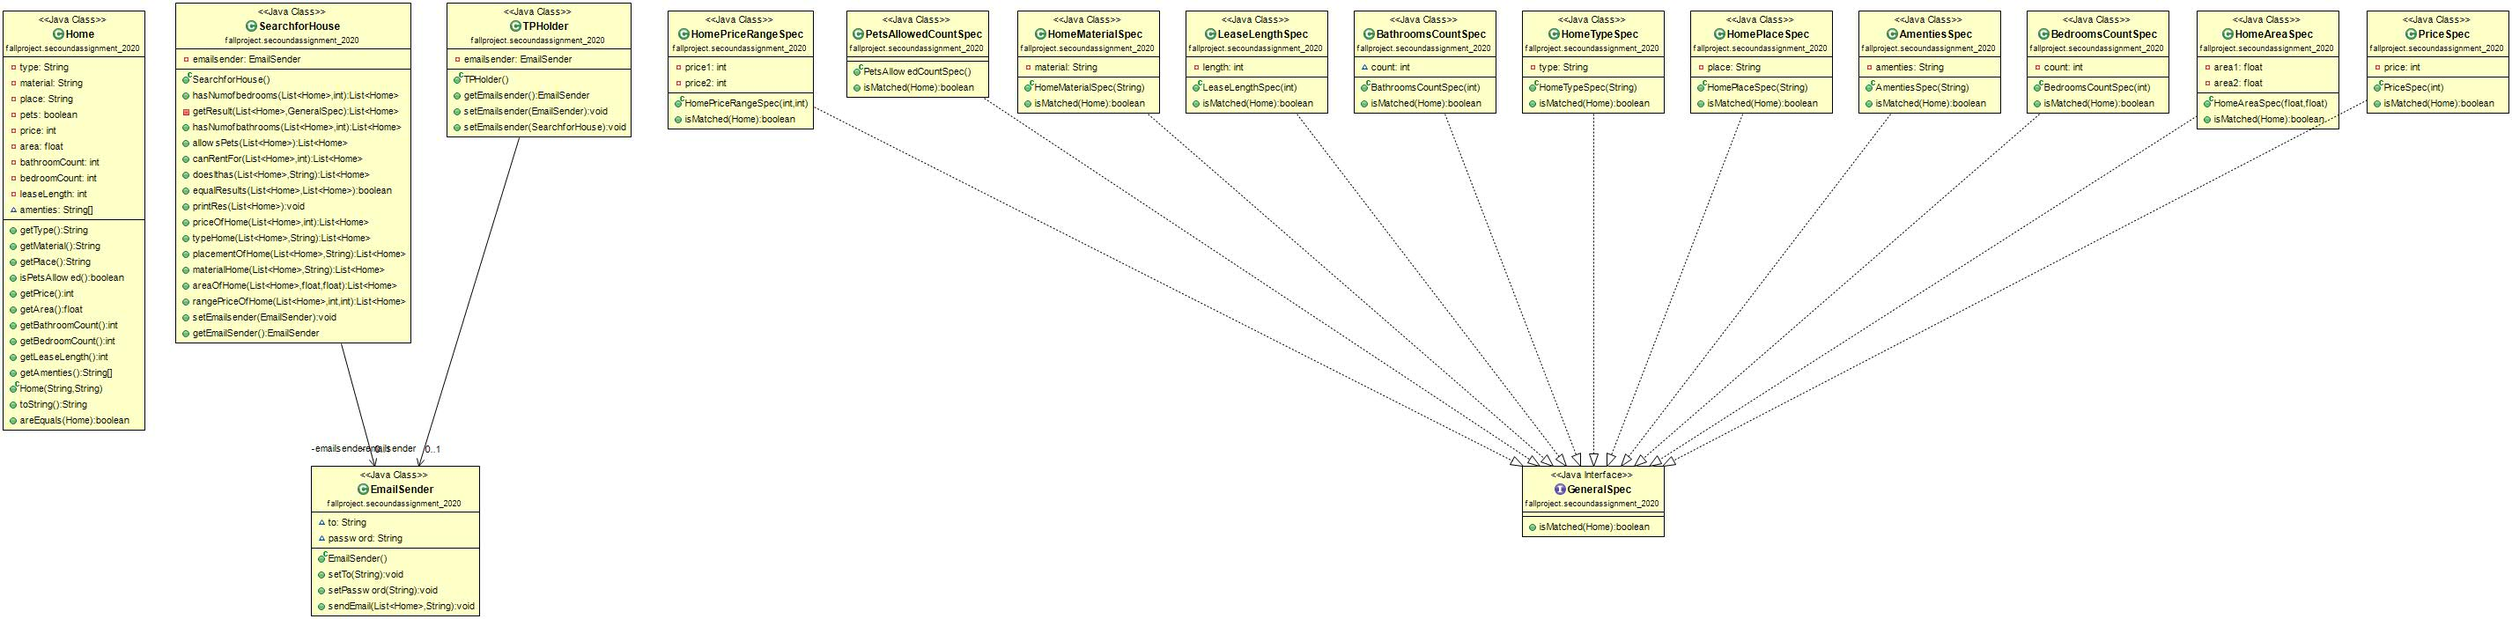
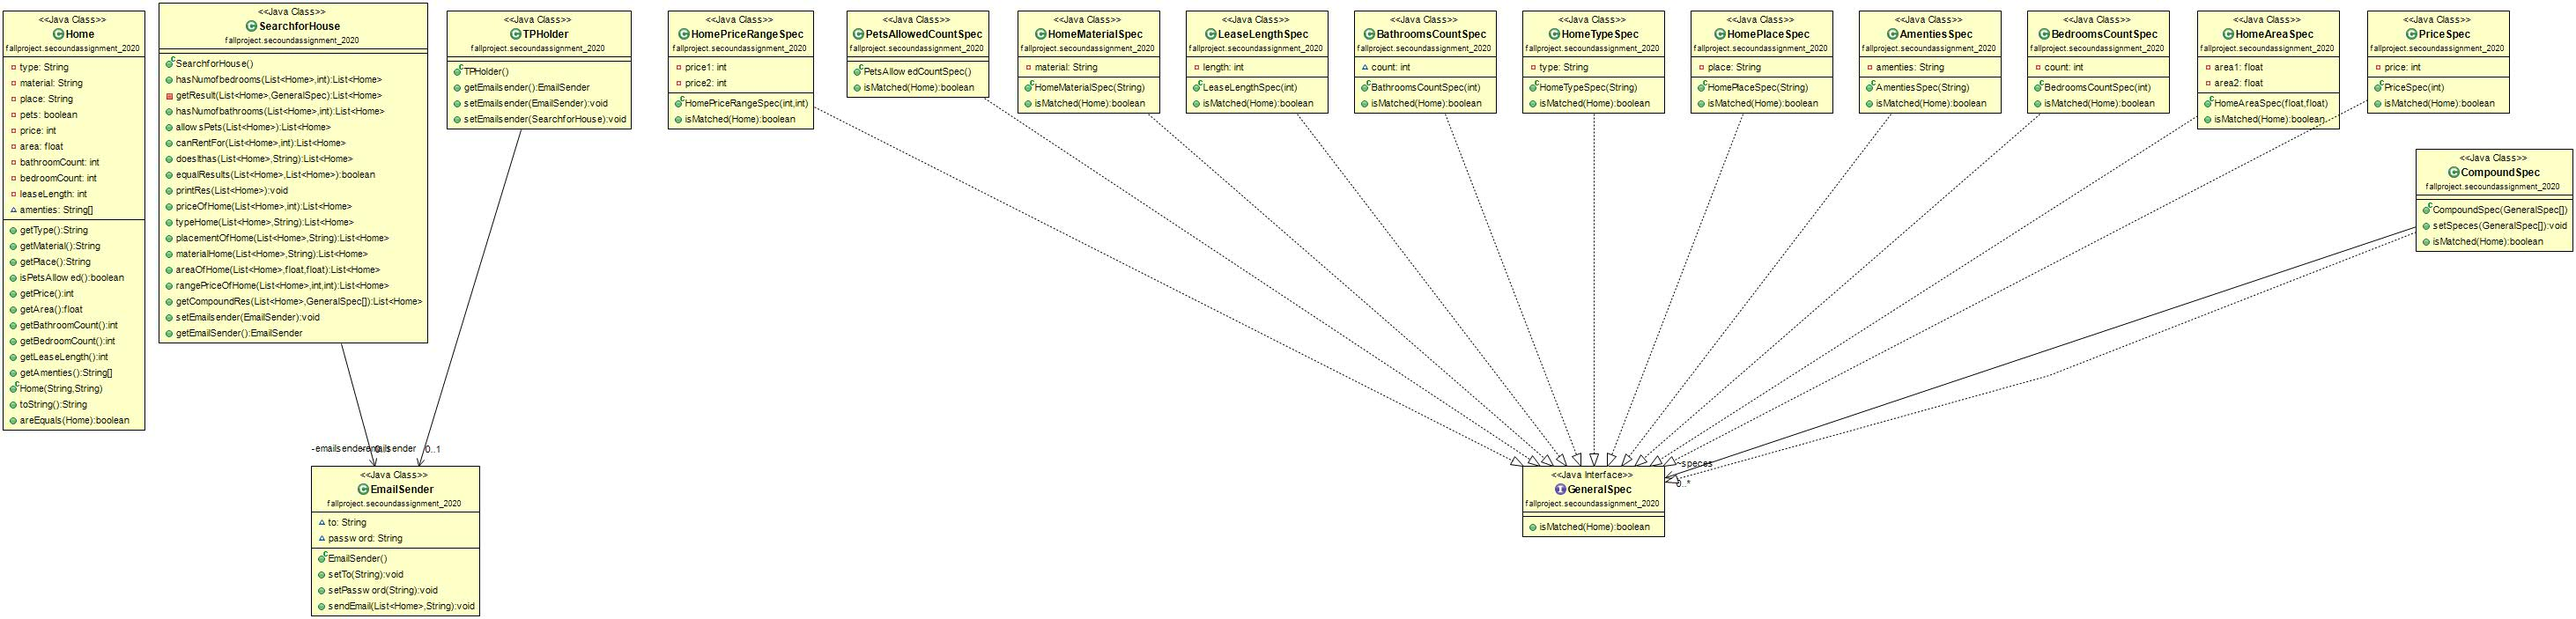
Coverage is done and Uml Diagram is done

diff --git a/src/test/java/fall2020Project2ndAssignTest/SearchHomeSteps.java b/src/test/java/fall2020Project2ndAssignTest/SearchHomeSteps.java
@@ -6,8 +6,10 @@ import org.junit.Assert;
 import org.junit.BeforeClass;
 import org.junit.Ignore;
 
+import fallproject.secoundassignment_2020.BathroomsCountSpec;
 import fallproject.secoundassignment_2020.EmailSender;
 import fallproject.secoundassignment_2020.Home;
+import fallproject.secoundassignment_2020.PriceSpec;
 import fallproject.secoundassignment_2020.SearchforHouse;
 import fallproject.secoundassignment_2020.TPHolder;
 
@@ -158,8 +160,7 @@ public void iSearchAboutHomeByType(String string) {
 
 @When("I search about house that it price less than {int} and has {int} bathrooms")
 public void iSearchAboutHouseThatItPriceLessThanAndHasBathrooms(Integer int1, Integer int2) {
-    res=s.rangePriceOfHome(houses, 0, int1);
-    res=s.hasNumofbathrooms(res, int2);
+    res = s.getCompoundRes(houses,new PriceSpec(int1),new BathroomsCountSpec(int2) ) ;
     System.out.println("When I searched for a house that price is less than 300 and has a 2 bathrooms");
 	shouldRes.add(new Home("APARTMENT_BRICK_CITY_NO_ELEVATOR","230_120_4_2_12"));
 	

diff --git a/src/main/java/fallproject/secoundassignment_2020/CompoundSpec.java b/src/main/java/fallproject/secoundassignment_2020/CompoundSpec.java
@@ -1,0 +1,17 @@
+package fallproject.secoundassignment_2020;
+
+public class CompoundSpec implements GeneralSpec {
+    GeneralSpec [] speces ;
+    public CompoundSpec(GeneralSpec[] speces) {
+	 this.speces = speces ;
+	}
+	public void setSpeces (GeneralSpec [] speces) {
+    this.speces= speces;	
+    }
+	public boolean isMatched(Home e) {
+	boolean res = true;
+	for(GeneralSpec gs:speces) { res = res&&gs.isMatched(e);}
+	   return res ;
+	}
+
+}

diff --git a/src/main/java/fallproject/secoundassignment_2020/SearchforHouse.java b/src/main/java/fallproject/secoundassignment_2020/SearchforHouse.java
@@ -76,6 +76,12 @@ public List<Home> rangePriceOfHome(List <Home> a,int price1,int price2){
 	res =  getResult(a, spe);
 	return res ;
 }
+public List<Home> getCompoundRes(List <Home> a,GeneralSpec...speces){
+	GeneralSpec spe = new CompoundSpec(speces);
+	List <Home> res ; 
+	res =  getResult(a, spe);
+	return res ;
+}
 public void setEmailsender(EmailSender emailsender) {
 	this.emailsender = emailsender;
 }
